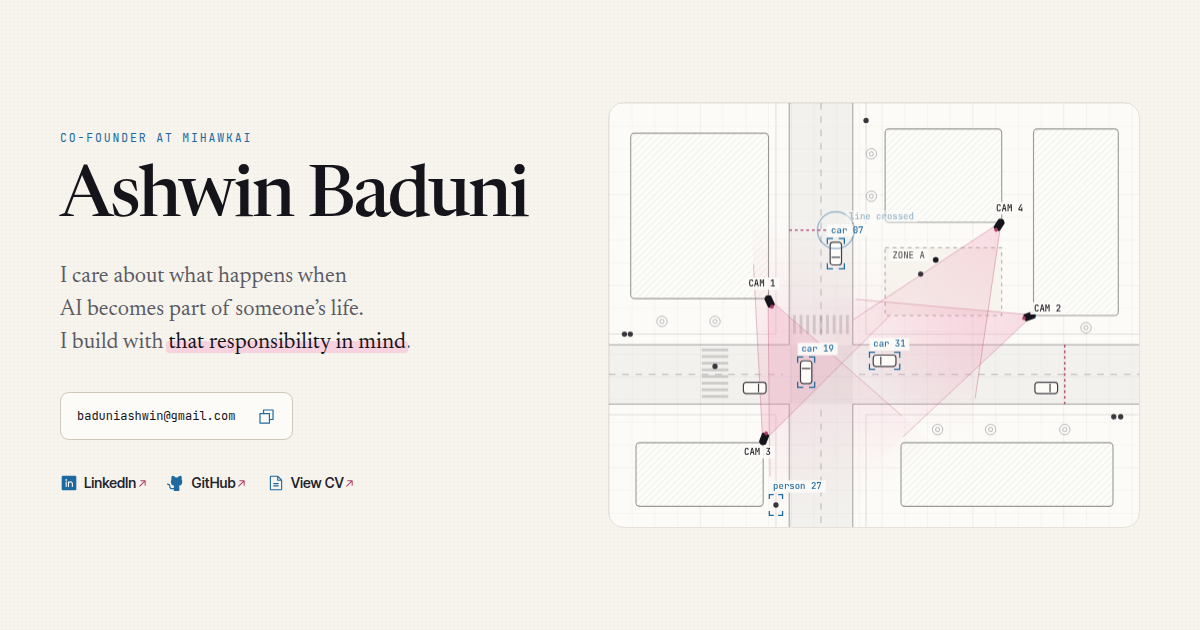
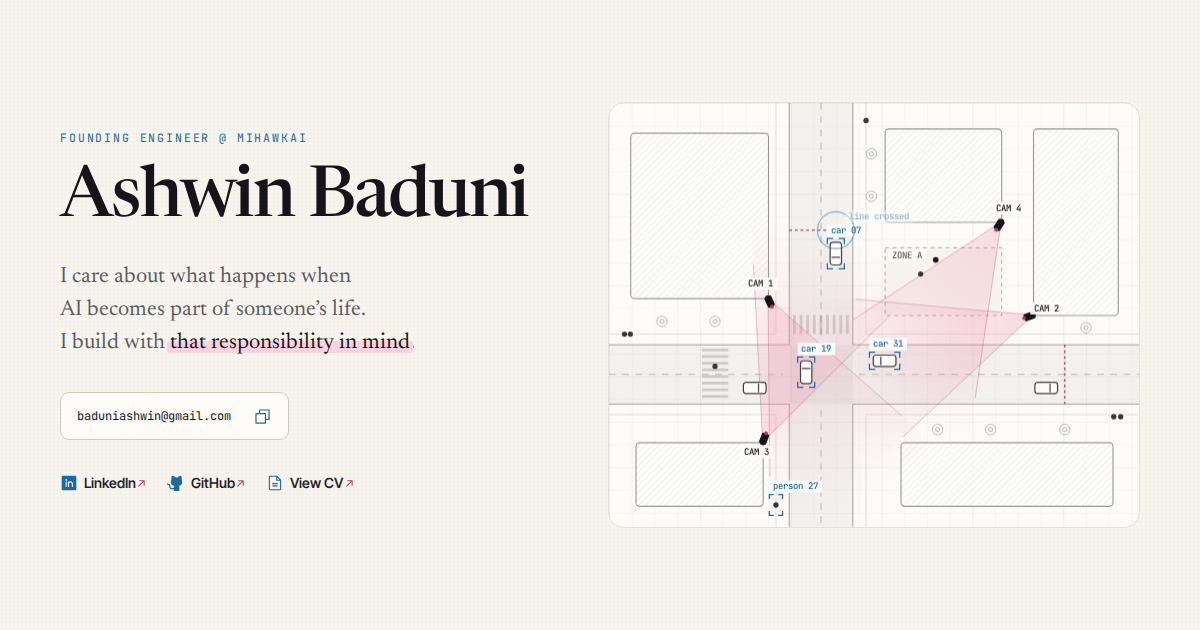
Update 10/26

diff --git a/index.html b/index.html
@@ -4,7 +4,7 @@
     <meta charset="UTF-8" />
     <meta name="viewport" content="width=device-width, initial-scale=1.0" />
     <title>Ashwin Baduni</title>
-    <meta name="description" content="Ashwin Baduni is a co-founder of MihawkAI who builds AI with the people it touches in mind." />
+    <meta name="description" content="Building trustworthy AI products for a better future." />
     <meta name="author" content="Ashwin Baduni" />
     <meta name="theme-color" content="#f7f4ee" />
     <meta name="color-scheme" content="light" />
@@ -12,14 +12,14 @@
 
     <meta property="og:type" content="profile" />
     <meta property="og:url" content="https://ashwin-baduni.github.io/" />
-    <meta property="og:title" content="Ashwin Baduni | Co-founder at MihawkAI" />
-    <meta property="og:description" content="Ashwin Baduni is a co-founder of MihawkAI who builds AI with the people it touches in mind." />
+    <meta property="og:title" content="Ashwin Baduni | Founding Engineer @ MihawkAI" />
+    <meta property="og:description" content="Building trustworthy AI products for a better future." />
     <meta property="og:image" content="https://ashwin-baduni.github.io/images/og.png" />
     <meta property="og:image:width" content="1200" />
     <meta property="og:image:height" content="630" />
     <meta name="twitter:card" content="summary_large_image" />
-    <meta name="twitter:title" content="Ashwin Baduni | Co-founder at MihawkAI" />
-    <meta name="twitter:description" content="Ashwin Baduni is a co-founder of MihawkAI who builds AI with the people it touches in mind." />
+    <meta name="twitter:title" content="Ashwin Baduni | Founding Engineer @ MihawkAI" />
+    <meta name="twitter:description" content="Building trustworthy AI products for a better future." />
     <meta name="twitter:image" content="https://ashwin-baduni.github.io/images/og.png" />
 
     <link rel="icon" href="/images/favicon-32x32.png" sizes="32x32" type="image/png" />
@@ -32,7 +32,7 @@
         "@context": "https://schema.org",
         "@type": "Person",
         "name": "Ashwin Baduni",
-        "jobTitle": "Co-founder",
+        "jobTitle": "Founding Engineer",
         "worksFor": { "@type": "Organization", "name": "MihawkAI", "url": "https://mihawk.ai" },
         "alumniOf": { "@type": "CollegeOrUniversity", "name": "Mahindra University" },
         "url": "https://ashwin-baduni.github.io/",
@@ -45,7 +45,7 @@
     <div id="root"></div>
     <noscript>
       <p style="font-family: Georgia, serif; max-width: 40rem; margin: 4rem auto; padding: 0 1rem">
-        Ashwin Baduni, co-founder of MihawkAI. Email baduniashwin@gmail.com, or see
+        Ashwin Baduni, Founding Engineer at MihawkAI. Email baduniashwin@gmail.com, or see
         <a href="https://github.com/Ashwin-Baduni">GitHub</a> and <a href="https://www.linkedin.com/in/ashwinbaduni/">LinkedIn</a>.
       </p>
     </noscript>

diff --git a/src/content.ts b/src/content.ts
@@ -3,7 +3,7 @@
 
 export const person = {
   name: "Ashwin Baduni",
-  role: "Co-founder at MihawkAI",
+  role: "Founding Engineer @ MihawkAI",
   email: "baduniashwin@gmail.com",
   cv: "/files/CV.pdf",
   linkedin: "https://www.linkedin.com/in/ashwinbaduni/",
@@ -23,7 +23,7 @@ export const about = {
   title: "About me",
   // {blue:…} and {pink:…} mark the highlighted phrases: blue for the AI, pink for the product.
   paragraphs: [
-    "I’m a co-founder of MihawkAI. I got into AI because I wanted to build things that solve problems people actually have.",
+    "I’m a Founding Engineer at MihawkAI. I got into AI because I wanted to build things that solve problems people actually have.",
     "Most of my work sits between the model and the person using it. I {blue:train models} that make sense of what cameras see and build agents you can simply talk to. Then I {pink:design the product} around them so it feels effortless to use.",
     "The products will keep changing as we grow. How I build them won’t. I test everything against messy reality and stay honest about its limits. And I make sure people stay in charge of the decisions that matter.",
   ],
@@ -157,7 +157,7 @@ export const experience: {
     {
       org: "MihawkAI",
       href: "https://mihawk.ai",
-      title: "Co-founder",
+      title: "Founding Engineer",
       dates: "2025 - Present",
       text: "Part of the founding team deciding what we build next. My work spans the AI underneath our products and the experience people see on top.",
       tags: [

diff --git a/README.md b/README.md
@@ -1,6 +1,6 @@
 # Ashwin Baduni
 
-Personal site of Ashwin Baduni, co-founder of [MihawkAI](https://mihawk.ai).
+Personal site of Ashwin Baduni, Founding Engineer @ [MihawkAI](https://mihawk.ai).
 
 **Live:** [ashwin-baduni.github.io](https://ashwin-baduni.github.io)
 
